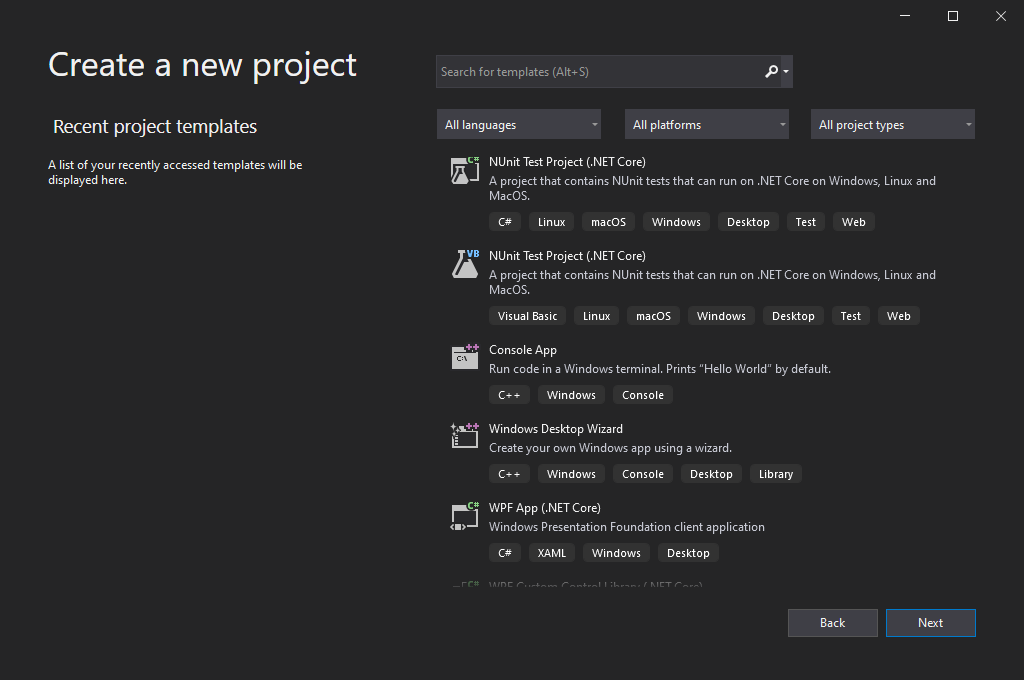
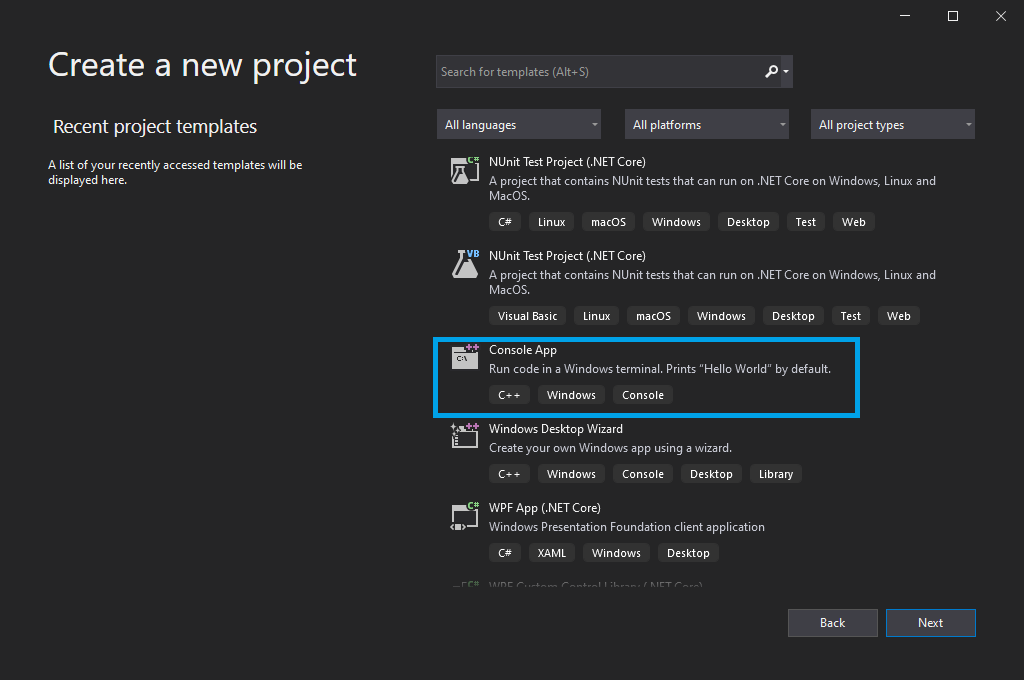
EDIT: Added new screenshots on Hello World

Changed region(s): [[0.4062, 0.4941, 0.8438, 0.6176]]

diff --git a/content/posts/2020-09-10---Hello-World.md b/content/posts/2020-09-10---Hello-World.md
@@ -34,7 +34,9 @@ If you are running Windows then I would recommend using Visual Studio since it's
 6. Wait for the installation to finish. This will take some time depending on your internet connection.
 !["Visual studio community 2019 installing"](/media/screenshot-cpp-hello-world-4.PNG)
 7. Once the installation finishes you can now open up Visual Studio. Upon opening it choose **Create a new project**.
+!["Choose create a new project"](/media/screenshot-cpp-hello-world-5.PNG)
 8. Choose **Console App**.
+!["Choose console app that has a C++ tag](/media/screenshot-cpp-hello-world-6.PNG)
 9. For now we are naming our project **HelloWorld** so put that on both the *Project Name* and *Solution Name*.
 10. The project will be created with the *boilerplate* code.
   
